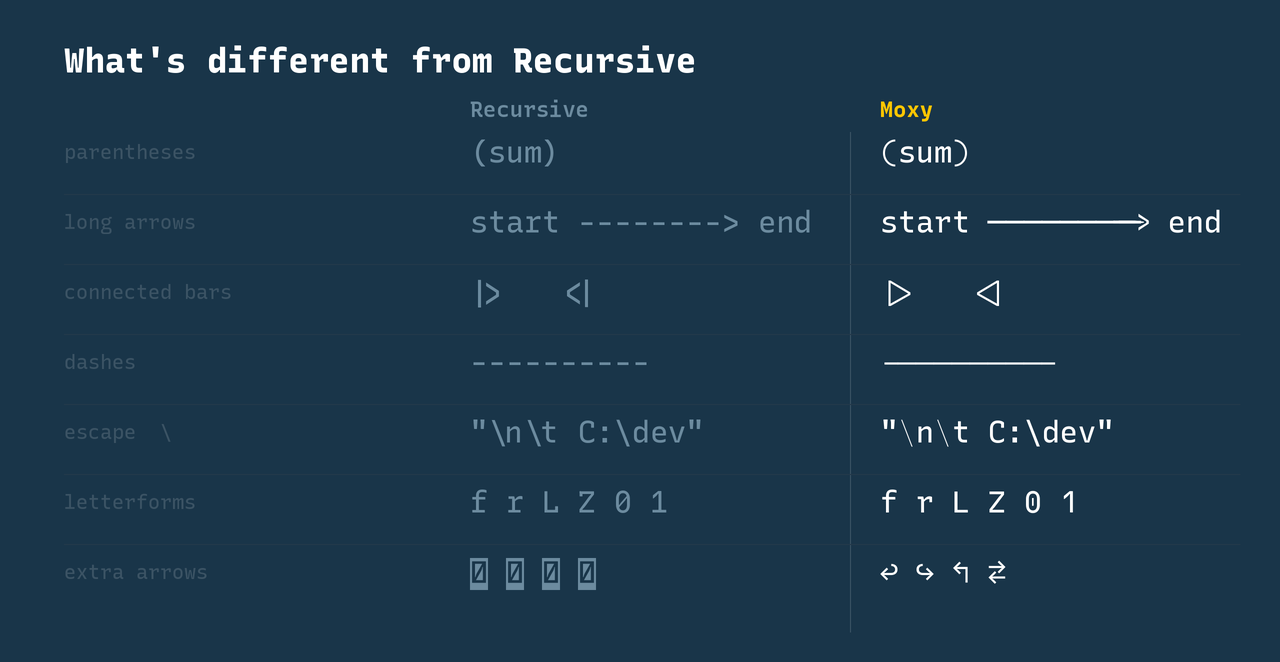
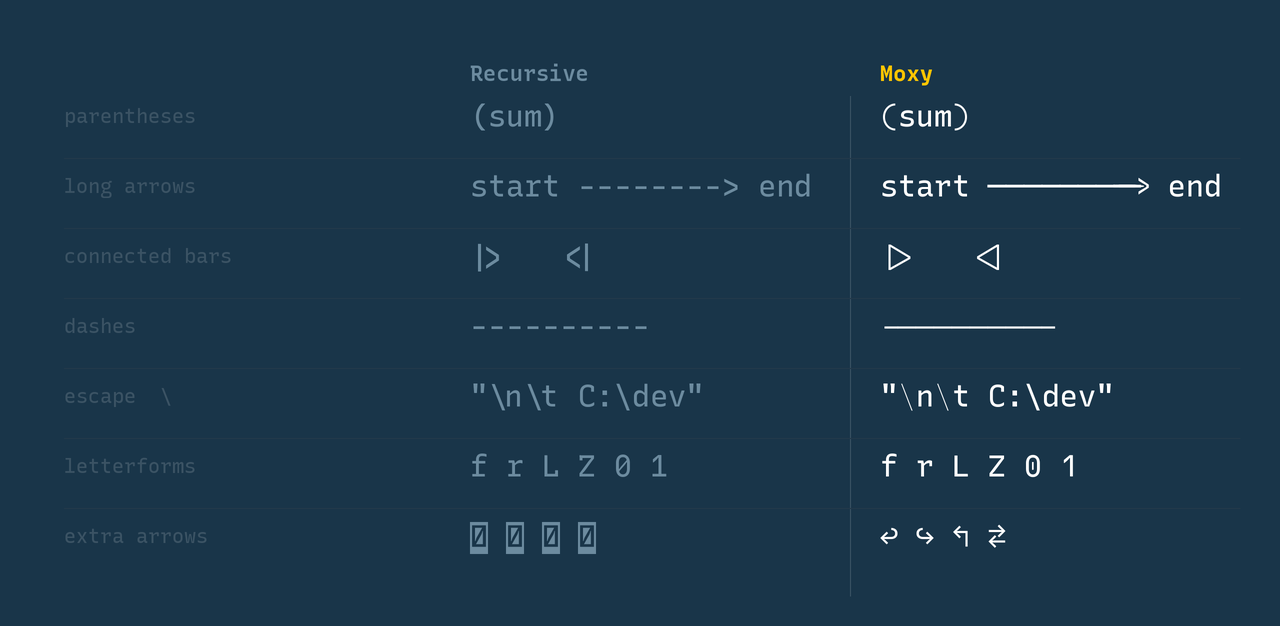
tweak branding images shown

diff --git a/scripts/dev/render_specimens.py b/scripts/dev/render_specimens.py
@@ -138,16 +138,18 @@ def render_specimen(sec):
 def render_comparison(sec):
     title = sec["params"].get("title", "What's different from Recursive")
     rows = sec["rows"]
+    has_title = bool(title.strip())
 
     W = 1280
-    top, rh, lblx, colL, colR = 132, 70, 64, 470, 880
+    top, rh, lblx, colL, colR = (132 if has_title else 96), 70, 64, 470, 880
     H = top + rh * len(rows) + 40
     img = Image.new("RGB", (W * S, H * S), PAL["bg"])
     d = ImageDraw.Draw(img)
 
-    draw(d, (lblx, 40), title, moxy(34, 800), PAL["text"])
-    draw(d, (colL, 96), "Recursive", moxy(22, 600), PAL["muted"])
-    draw(d, (colR, 96), "Moxy", moxy(22, 700), PAL["yellow"])
+    if has_title:
+        draw(d, (lblx, 40), title, moxy(34, 800), PAL["text"])
+    draw(d, (colL, top - 36), "Recursive", moxy(22, 600), PAL["muted"])
+    draw(d, (colR, top - 36), "Moxy", moxy(22, 700), PAL["yellow"])
     d.line([(colR - 30) * S, top * S, (colR - 30) * S, (H - 30) * S], fill=PAL["dim"], width=S)
 
     rf, mf = rec(30, 430), moxy(30, 430)

diff --git a/README.md b/README.md
@@ -49,8 +49,6 @@ with:
 
 ## What's different from Recursive
 
-Compared to stock Recursive Mono Casual, Moxy changes these by default:
-
 <p align="center">
   <img src="images/comparison.png" alt="What's different from Recursive — parentheses, long arrows, connected bars, dashes, escape backslash, letterforms, and extra arrows compared side by side" width="100%">
 </p>

diff --git a/branding/specimens.md b/branding/specimens.md
@@ -30,7 +30,7 @@ ids:  0 1 f r L Z   <=  >=  ===  ->  =>       # letterforms
 
 ## comparison -> images/comparison.png
 
-- title: What's different from Recursive
+- title:
 
 | feature | sample |
 | --- | --- |